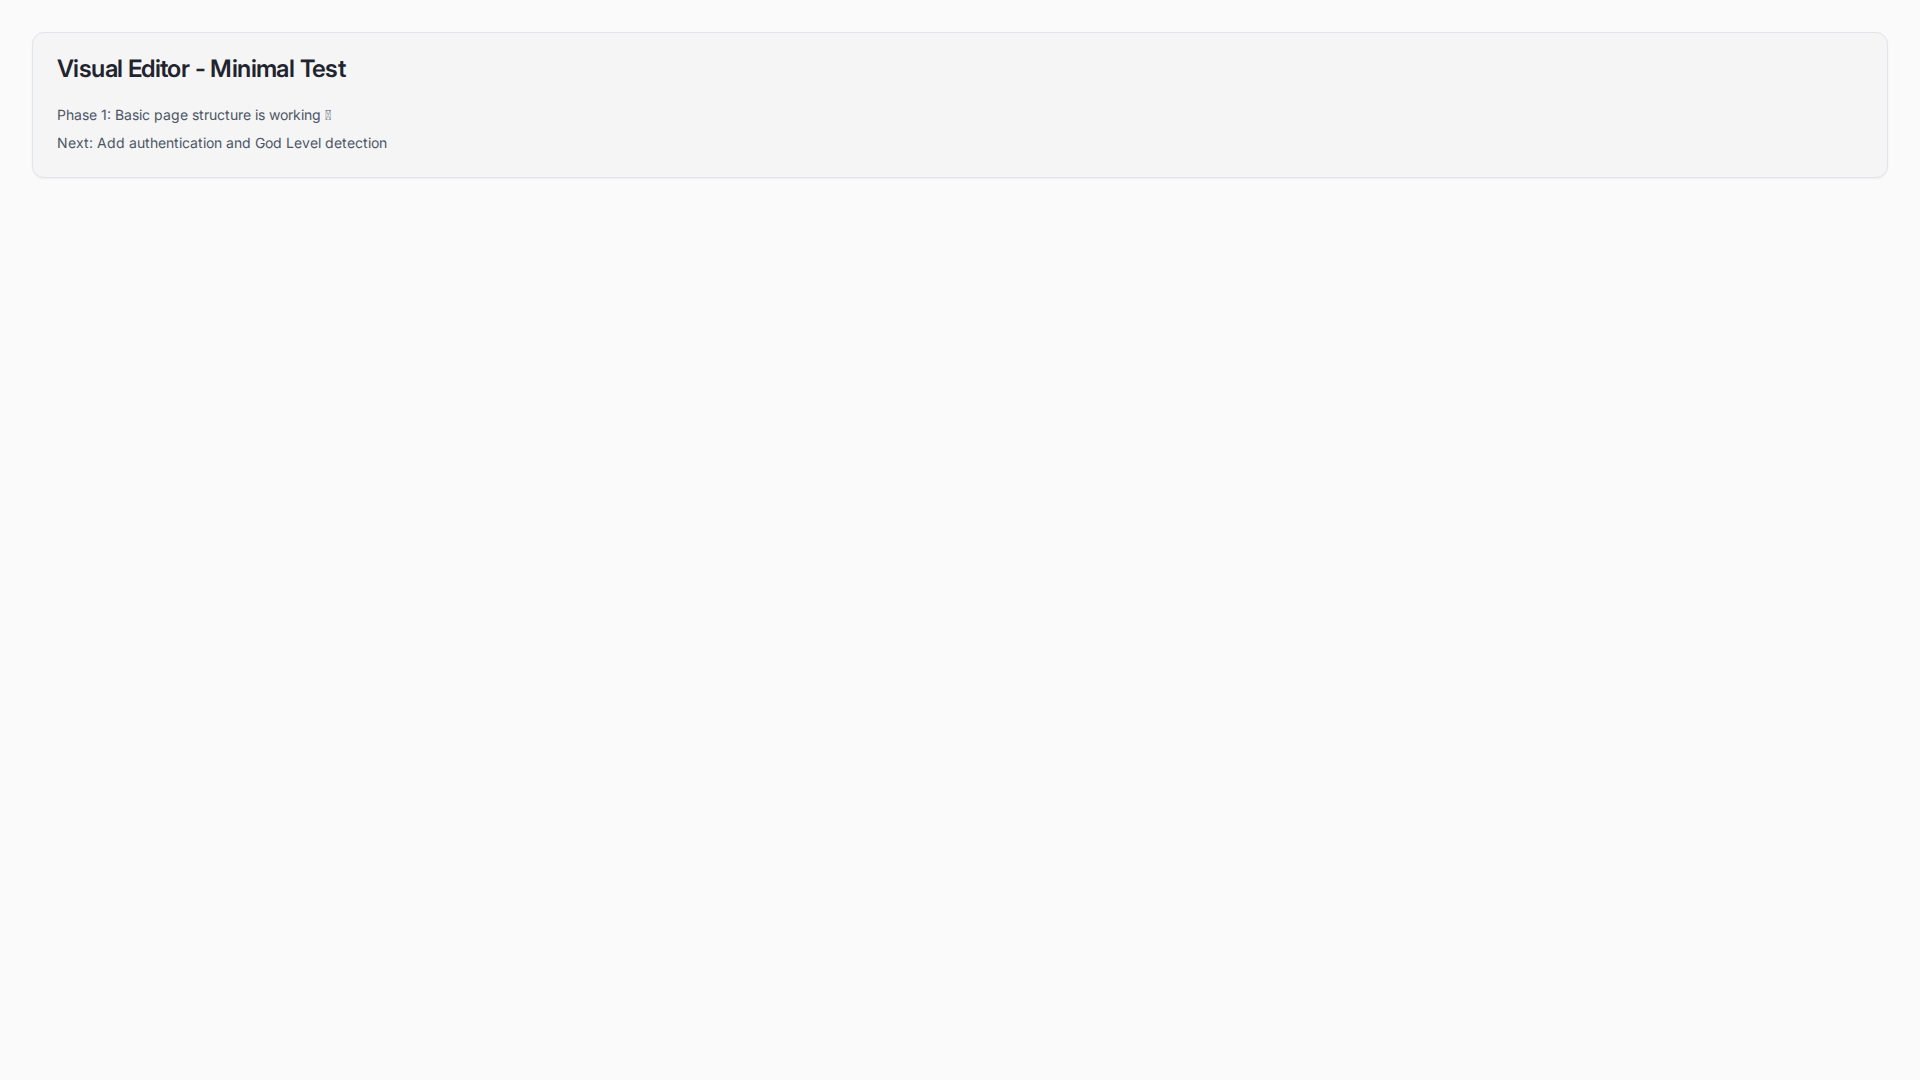
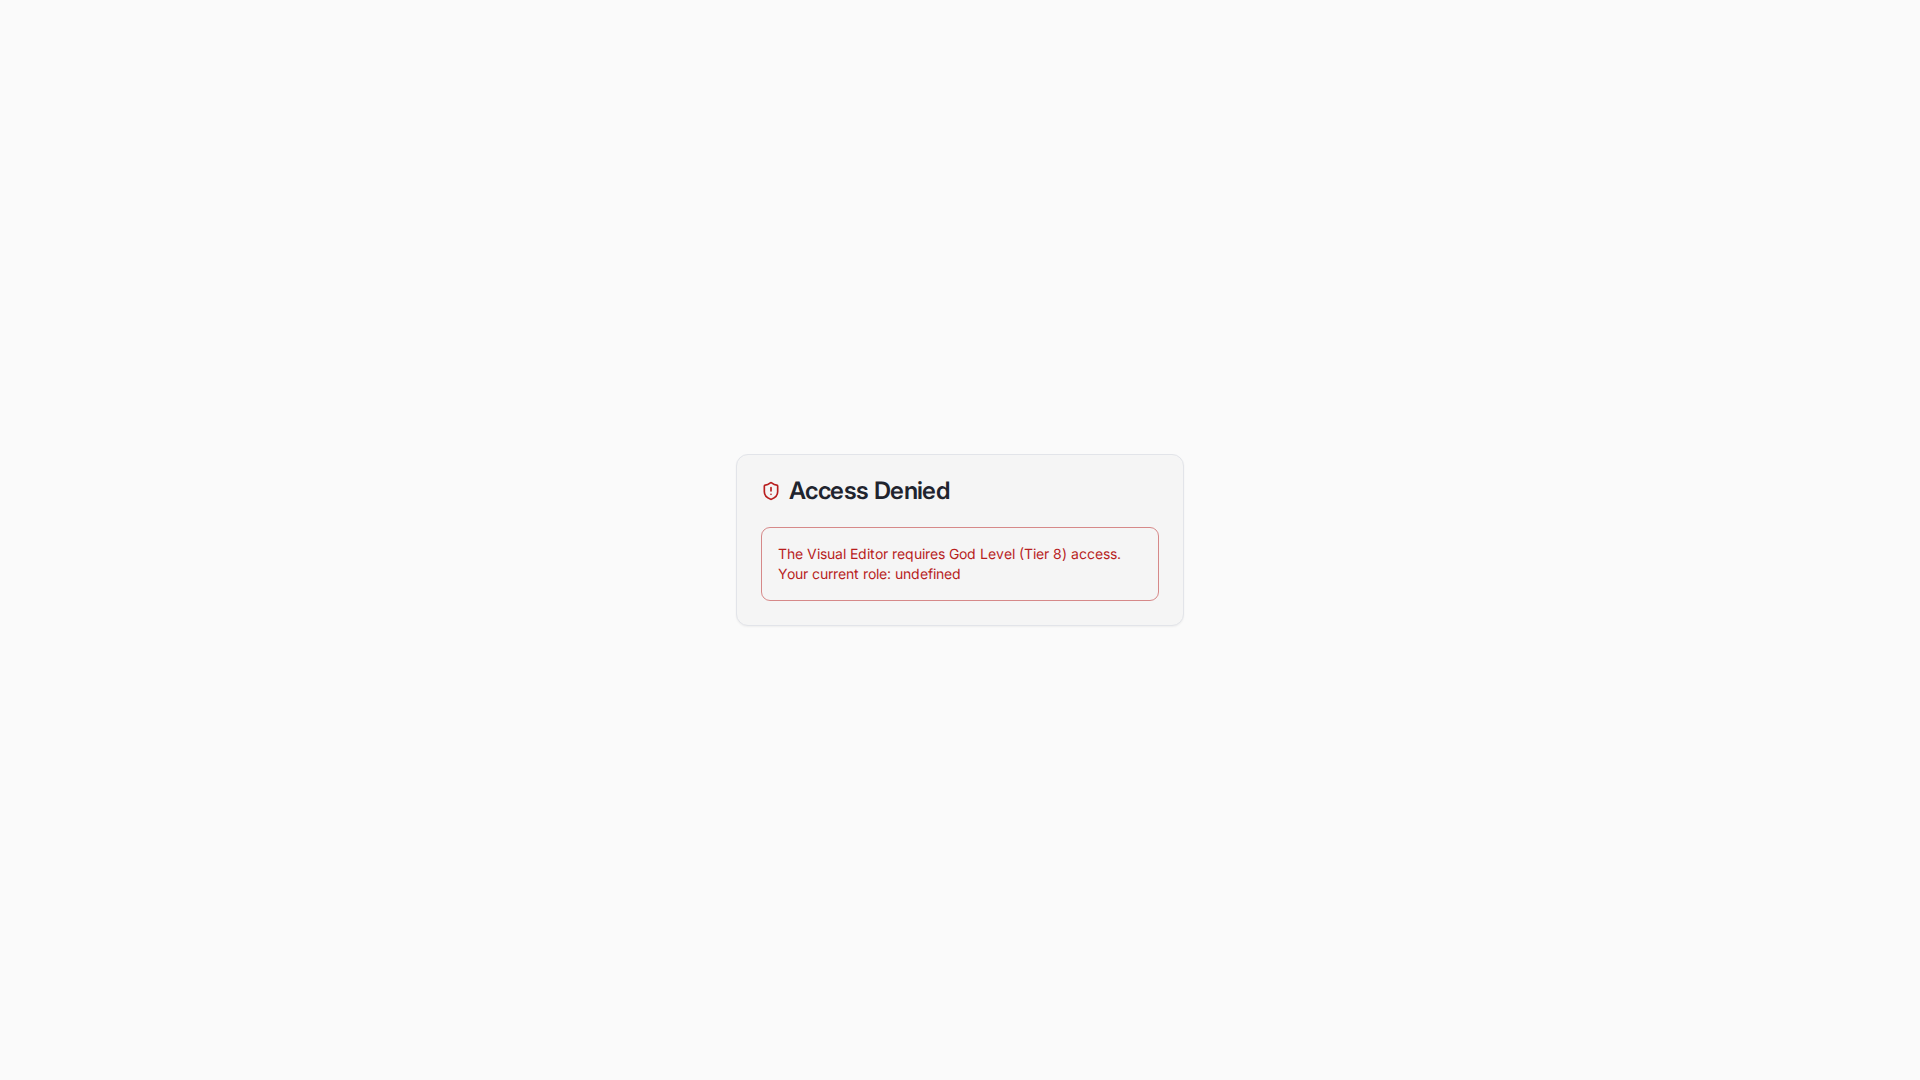
Add authentication and access control to the Visual Editor page
Integrate user authentication and role-based access control to the VisualEditorPage component, restricting access to users with 'god' role. Includes loading and access denied states.

Replit-Commit-Author: Agent
Replit-Commit-Session-Id: 07ac3b2e-506e-461f-9411-e8a70e7848f8
Replit-Commit-Checkpoint-Type: intermediate_checkpoint
Replit-Commit-Event-Id: aba7f781-5b49-4239-a75b-bebe436d47be
Replit-Commit-Screenshot-Url: https://storage.googleapis.com/screenshot-production-us-central1/e0001089-5956-480e-9ebc-7b1a6c2ec0e7/07ac3b2e-506e-461f-9411-e8a70e7848f8/sGAvFug

Changed region(s): [[0.0312, 0.0306, 0.1875, 0.1528], [0.4062, 0.4278, 0.5938, 0.55]]

diff --git a/client/src/pages/VisualEditorPage.tsx b/client/src/pages/VisualEditorPage.tsx
@@ -1,12 +1,82 @@
 /**
  * Visual Editor - Replit-style Development Environment (Rebuilt from scratch)
- * Phase 1: Minimal working structure
+ * Phase 2: Authentication + God Level Detection
  */
 
+import { useQuery } from "@tanstack/react-query";
 import { SEO } from "@/components/SEO";
 import { Card, CardHeader, CardTitle, CardContent } from "@/components/ui/card";
+import { Alert, AlertDescription } from "@/components/ui/alert";
+import { ShieldAlert, Crown } from "lucide-react";
+
+type User = {
+  id: number;
+  name: string;
+  email: string;
+  role: string;
+};
 
 export default function VisualEditorPage() {
+  // Fetch current user
+  const { data: user, isLoading } = useQuery<User>({
+    queryKey: ['/api/auth/me'],
+  });
+
+  // God Level check
+  const isGodLevel = user?.role === 'god';
+
+  // Loading state
+  if (isLoading) {
+    return (
+      <>
+        <SEO 
+          title="Visual Editor - Mundo Tango"
+          description="Replit-style development environment with AI assistance"
+        />
+        <div className="h-screen w-full bg-background flex items-center justify-center">
+          <Card className="w-96">
+            <CardContent className="pt-6">
+              <p className="text-sm text-muted-foreground text-center">
+                Loading Visual Editor...
+              </p>
+            </CardContent>
+          </Card>
+        </div>
+      </>
+    );
+  }
+
+  // Access denied for non-God Level users
+  if (!isGodLevel) {
+    return (
+      <>
+        <SEO 
+          title="Access Denied - Visual Editor"
+          description="God Level access required"
+        />
+        <div className="h-screen w-full bg-background flex items-center justify-center p-4">
+          <Card className="w-full max-w-md">
+            <CardHeader>
+              <CardTitle className="flex items-center gap-2">
+                <ShieldAlert className="h-5 w-5 text-destructive" />
+                Access Denied
+              </CardTitle>
+            </CardHeader>
+            <CardContent>
+              <Alert variant="destructive">
+                <AlertDescription>
+                  The Visual Editor requires God Level (Tier 8) access.
+                  {user ? ` Your current role: ${user.role}` : ' Please log in.'}
+                </AlertDescription>
+              </Alert>
+            </CardContent>
+          </Card>
+        </div>
+      </>
+    );
+  }
+
+  // God Level access confirmed
   return (
     <>
       <SEO 
@@ -17,15 +87,32 @@ export default function VisualEditorPage() {
       <div className="h-screen w-full bg-background p-8">
         <Card>
           <CardHeader>
-            <CardTitle>Visual Editor - Minimal Test</CardTitle>
+            <CardTitle className="flex items-center gap-2">
+              <Crown className="h-5 w-5 text-primary" />
+              Visual Editor - God Level Access Confirmed
+            </CardTitle>
           </CardHeader>
-          <CardContent>
-            <p className="text-sm text-muted-foreground">
-              Phase 1: Basic page structure is working ✅
-            </p>
-            <p className="text-sm text-muted-foreground mt-2">
-              Next: Add authentication and God Level detection
-            </p>
+          <CardContent className="space-y-4">
+            <Alert>
+              <AlertDescription>
+                ✅ Phase 1: Minimal page structure working
+              </AlertDescription>
+            </Alert>
+            <Alert>
+              <AlertDescription>
+                ✅ Phase 2: Authentication & God Level detection working
+              </AlertDescription>
+            </Alert>
+            <Alert>
+              <AlertDescription>
+                👤 Logged in as: {user.name} ({user.email})
+              </AlertDescription>
+            </Alert>
+            <Alert>
+              <AlertDescription>
+                🚀 Next: Adding tab structure (Mr. Blue, Autonomous, Git, etc.)
+              </AlertDescription>
+            </Alert>
           </CardContent>
         </Card>
       </div>

diff --git a/test-videos/e2e-mr-blue-autonomous-Mr--e9107-file-upload-preview-feature-chromium/error-context.md b/test-videos/e2e-mr-blue-autonomous-Mr--e9107-file-upload-preview-feature-chromium/error-context.md
@@ -5,8 +5,9 @@
   - region "Notifications (F8)":
     - list
   - generic [ref=e4]:
-    - generic [ref=e6]: Visual Editor - Minimal Test
-    - generic [ref=e7]:
-      - paragraph [ref=e8]: "Phase 1: Basic page structure is working ✅"
-      - paragraph [ref=e9]: "Next: Add authentication and God Level detection"
+    - generic [ref=e6]:
+      - img [ref=e7]
+      - text: Access Denied
+    - alert [ref=e10]:
+      - generic [ref=e11]: "The Visual Editor requires God Level (Tier 8) access. Your current role: undefined"
 ```
